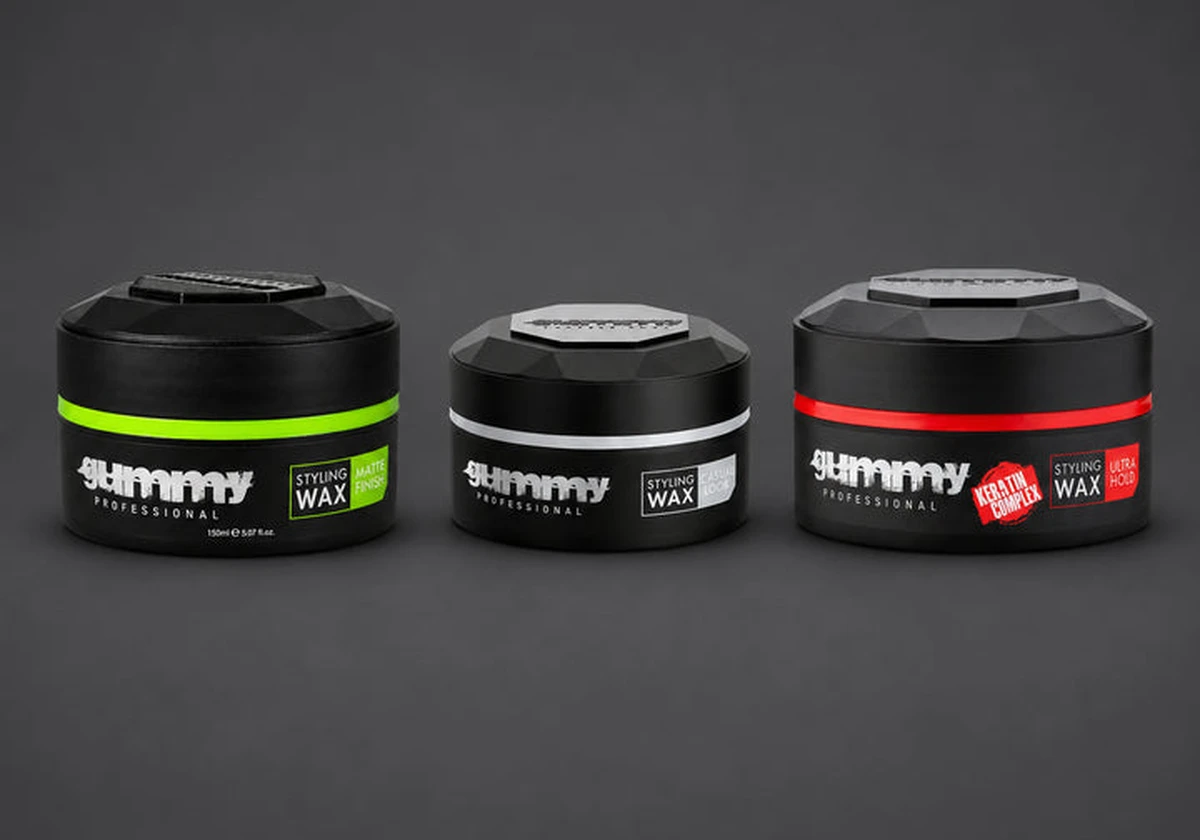
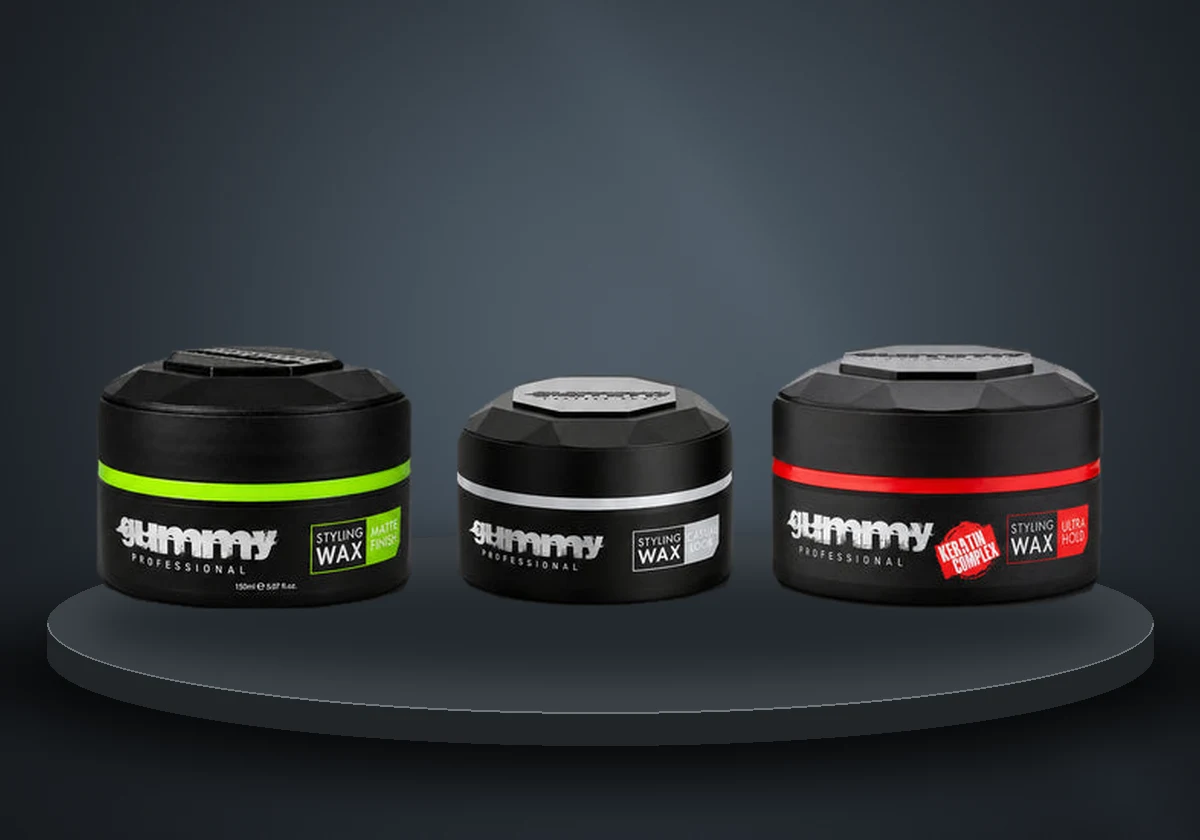
Habiller les bannières HIRA en studio et passer les titres en capitales (#13)

diff --git a/assets/vitrine-polish.css b/assets/vitrine-polish.css
@@ -240,3 +240,29 @@ footer p,.footer-column h2,.footer-links a,.footer-bottom,.payment-label{color:#
   font-family: Jost, Roboto, Arial, sans-serif;
 }
 #produits .section-head h2 { letter-spacing: -.025em; }
+
+/* Campaign photography and colour continue behind the offer copy. */
+.hira-offer { --hira-stage-colour: #171616; background: var(--hira-stage-colour); }
+.hira-offer--gummy { --hira-stage-colour: #14171b; }
+.hira-offer--derby { --hira-stage-colour: #10201e; }
+.hira-offer-copy { position: relative; z-index: 1; }
+.hira-offer-copy h2, .hira-offer-copy p, .hira-offer-copy a, .hira-offer-controls button {
+  text-transform: uppercase;
+}
+.hira-offer-copy h2 {
+  max-width: 15ch;
+  font-size: clamp(32px, 4.35vw, 64px);
+  font-weight: 700;
+  letter-spacing: -.018em;
+}
+.hira-offer-copy p:not(.hira-offer-price) { font-size: .84rem; letter-spacing: .055em; }
+.hira-offer-copy a { background: transparent; border: 1px solid #d5c29c; color: #f1e1c0; letter-spacing: .07em; }
+.hira-offer-copy a:hover { background: #f1e1c0; color: #191a1b; }
+.hira-offer-photo, .hira-offer--gummy .hira-offer-photo { background: var(--hira-stage-colour); }
+.hira-offer-photo img { object-fit: cover; }
+@media (min-width: 651px) {
+  .hira-offer-photo img { mask-image: linear-gradient(to right, transparent, #000 14%); }
+}
+@media (max-width: 650px) {
+  .hira-offer-copy h2 { max-width: none; font-size: clamp(30px, 7.5vw, 43px); }
+}
